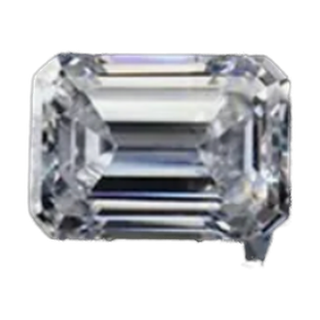
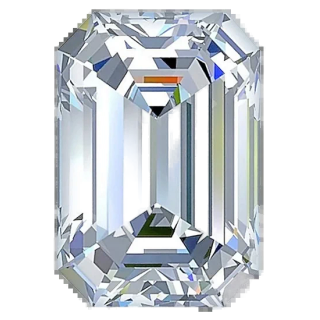
Moissanite: clean Emerald Cut photo; Tapered Baguette shows its own photo
emerald.png was a blurry crop with a stray fragment at the corner; it is
now made from the Emerald Cut reference photo. Tapered Baguette's Moissanite
override pointed at the Trapezoid photo, hiding the shape's own photo from
Admin > Shapes; a guarded migration clears that one override. The size-chart
PDF route now also traces the shared shape photos it falls back to.

diff --git a/next.config.js b/next.config.js
@@ -1,7 +1,9 @@
 /** @type {import('next').NextConfig} */
 const nextConfig = {
   outputFileTracingIncludes: {
-    '/api/categories/*/size-chart': ['./public/moissanite-shapes/*.png'],
+    // The shared shape photos too: a shape with no category-specific photo
+    // falls back to its own reference photo (e.g. Moissanite Tapered Baguette).
+    '/api/categories/*/size-chart': ['./public/moissanite-shapes/*.png', './public/reference/stones/*'],
     // assets/fonts is the watermark typeface. It is read from disk at
     // request time by every route that stores a photo, so without this trace they get ENOENT in
     // production while working perfectly here -- the same failure the PDFKit
